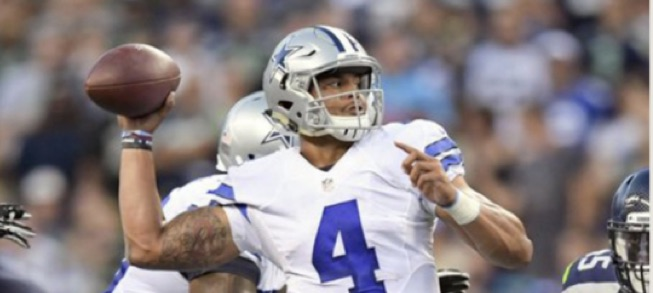
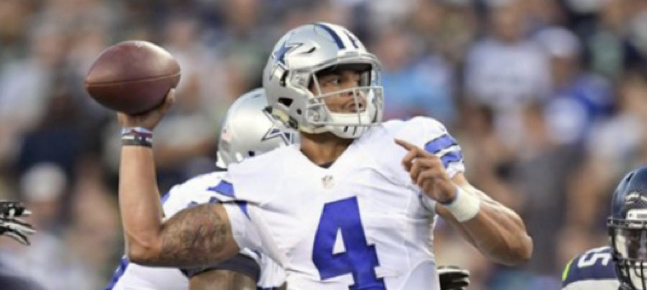
article cover corners.

diff --git a/src/app/vocabulary/view/view-vocab.scss b/src/app/vocabulary/view/view-vocab.scss
@@ -82,6 +82,8 @@ $message_speak_size: 15px;
   }
 
   .cover-image{
+    border-radius: $border_radius;
+    overflow: hidden;
     img{
       width: 100%;
     }
@@ -98,6 +100,12 @@ $message_speak_size: 15px;
       font-size  : $normal_font;
       line-height: $normal_font;
     }
+  }
+}
+
+.vocabset.card.single-deck{
+  .cover-image{
+    border-radius: 0px;
   }
 }
 
